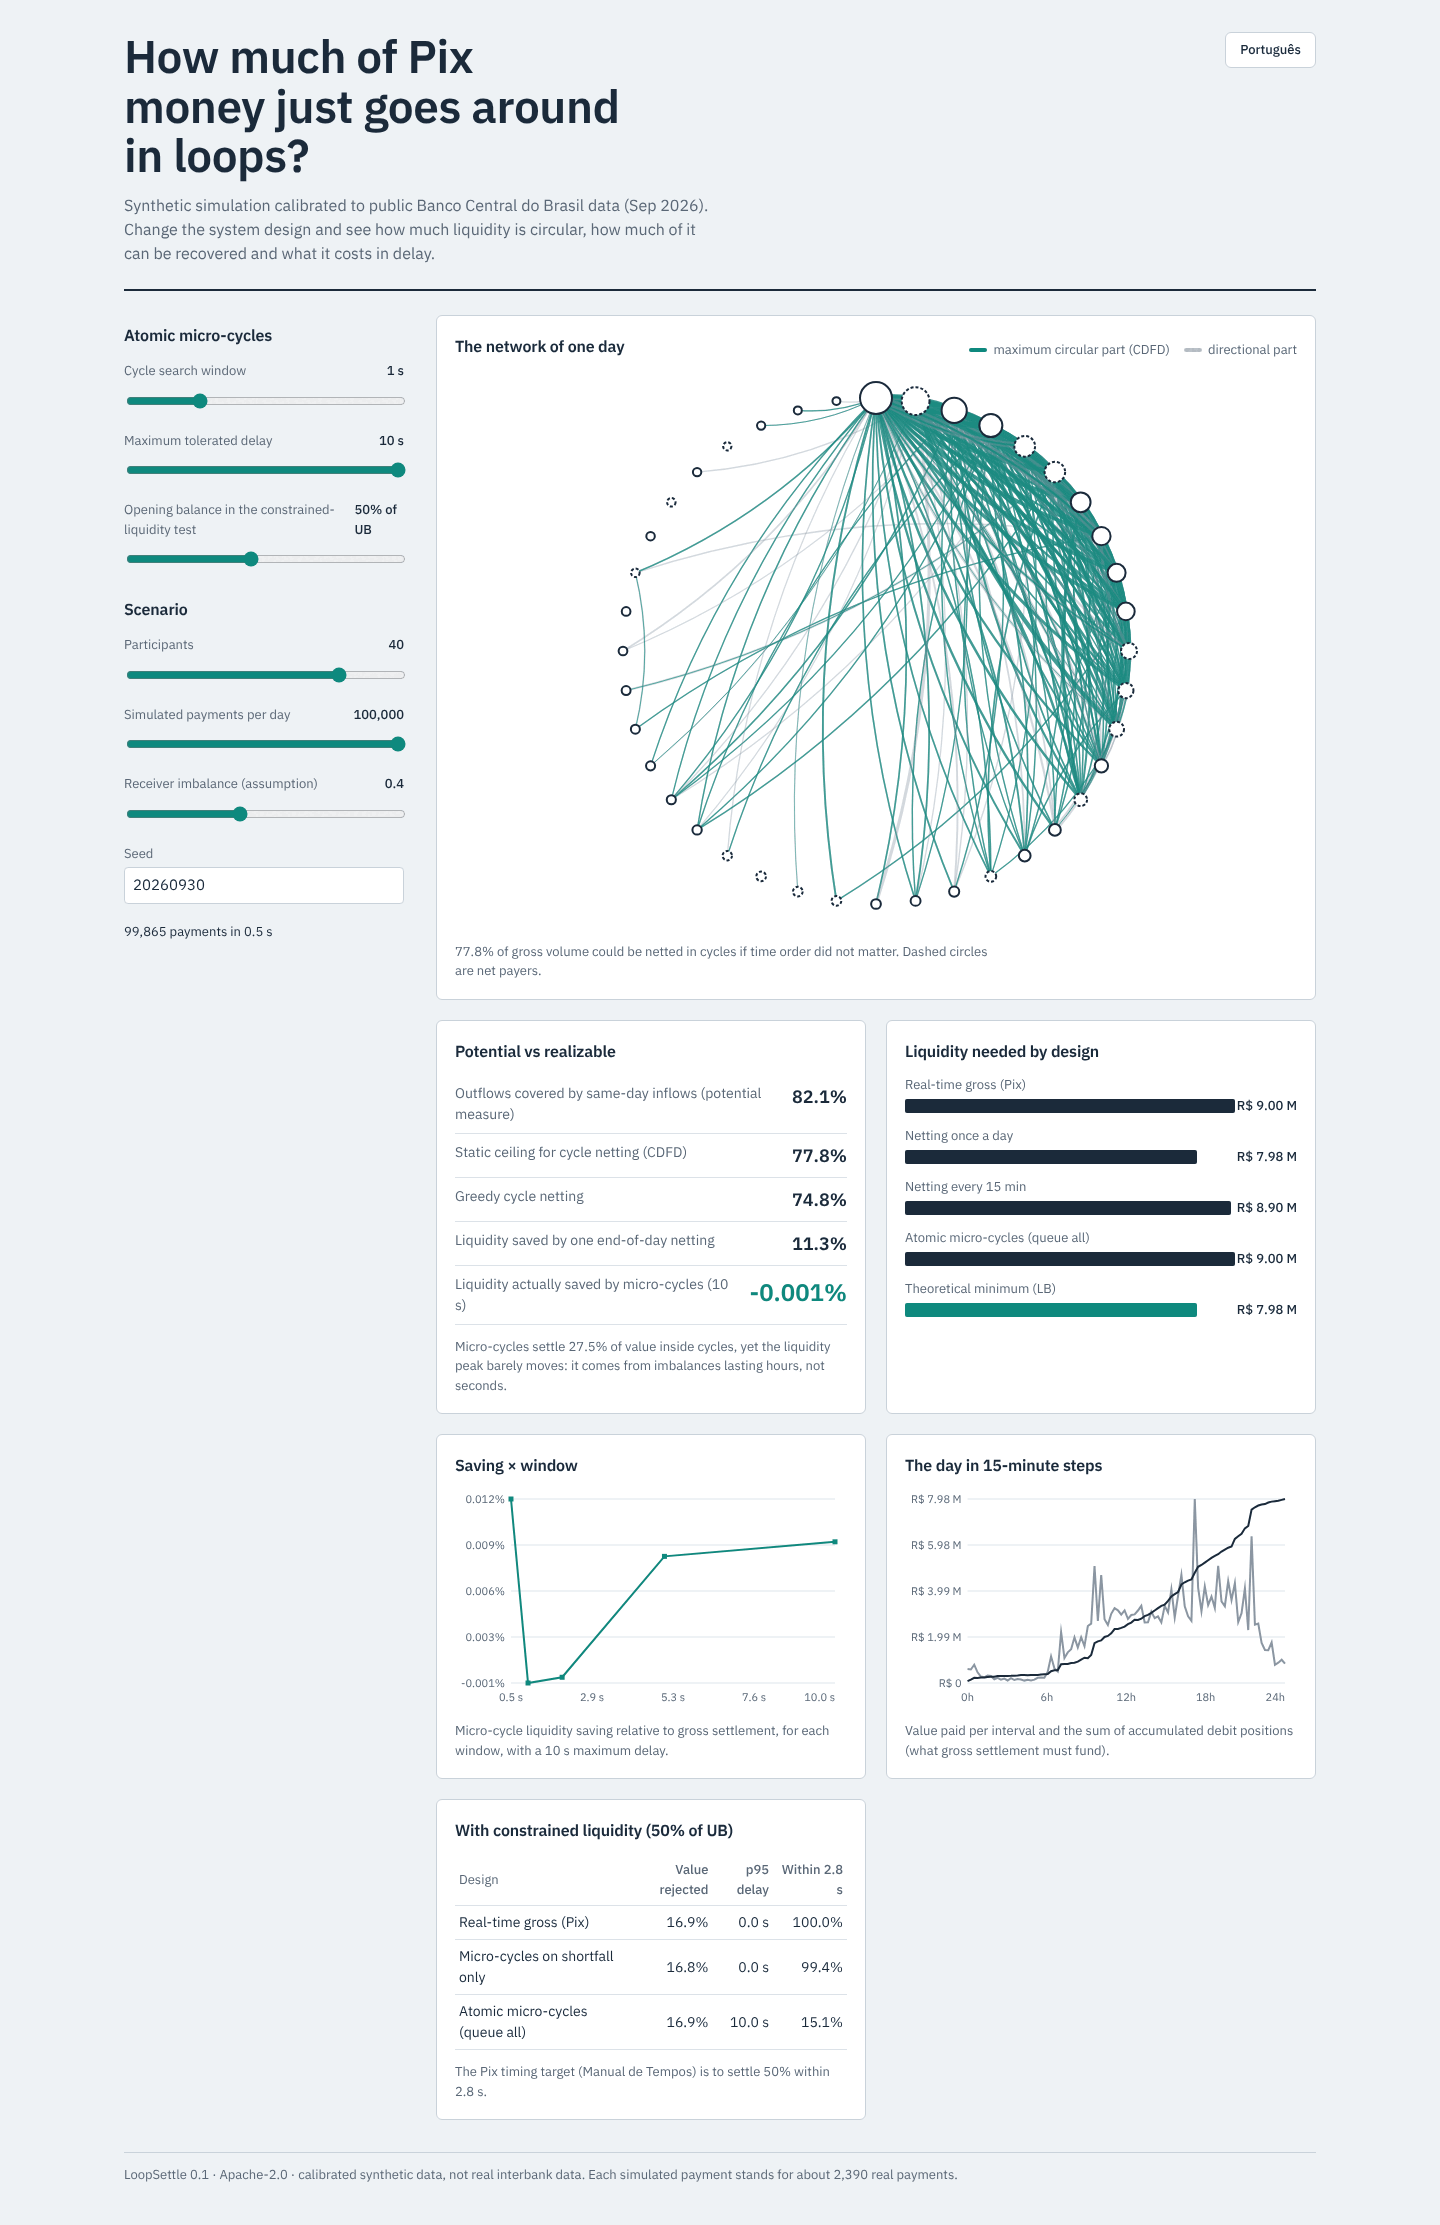
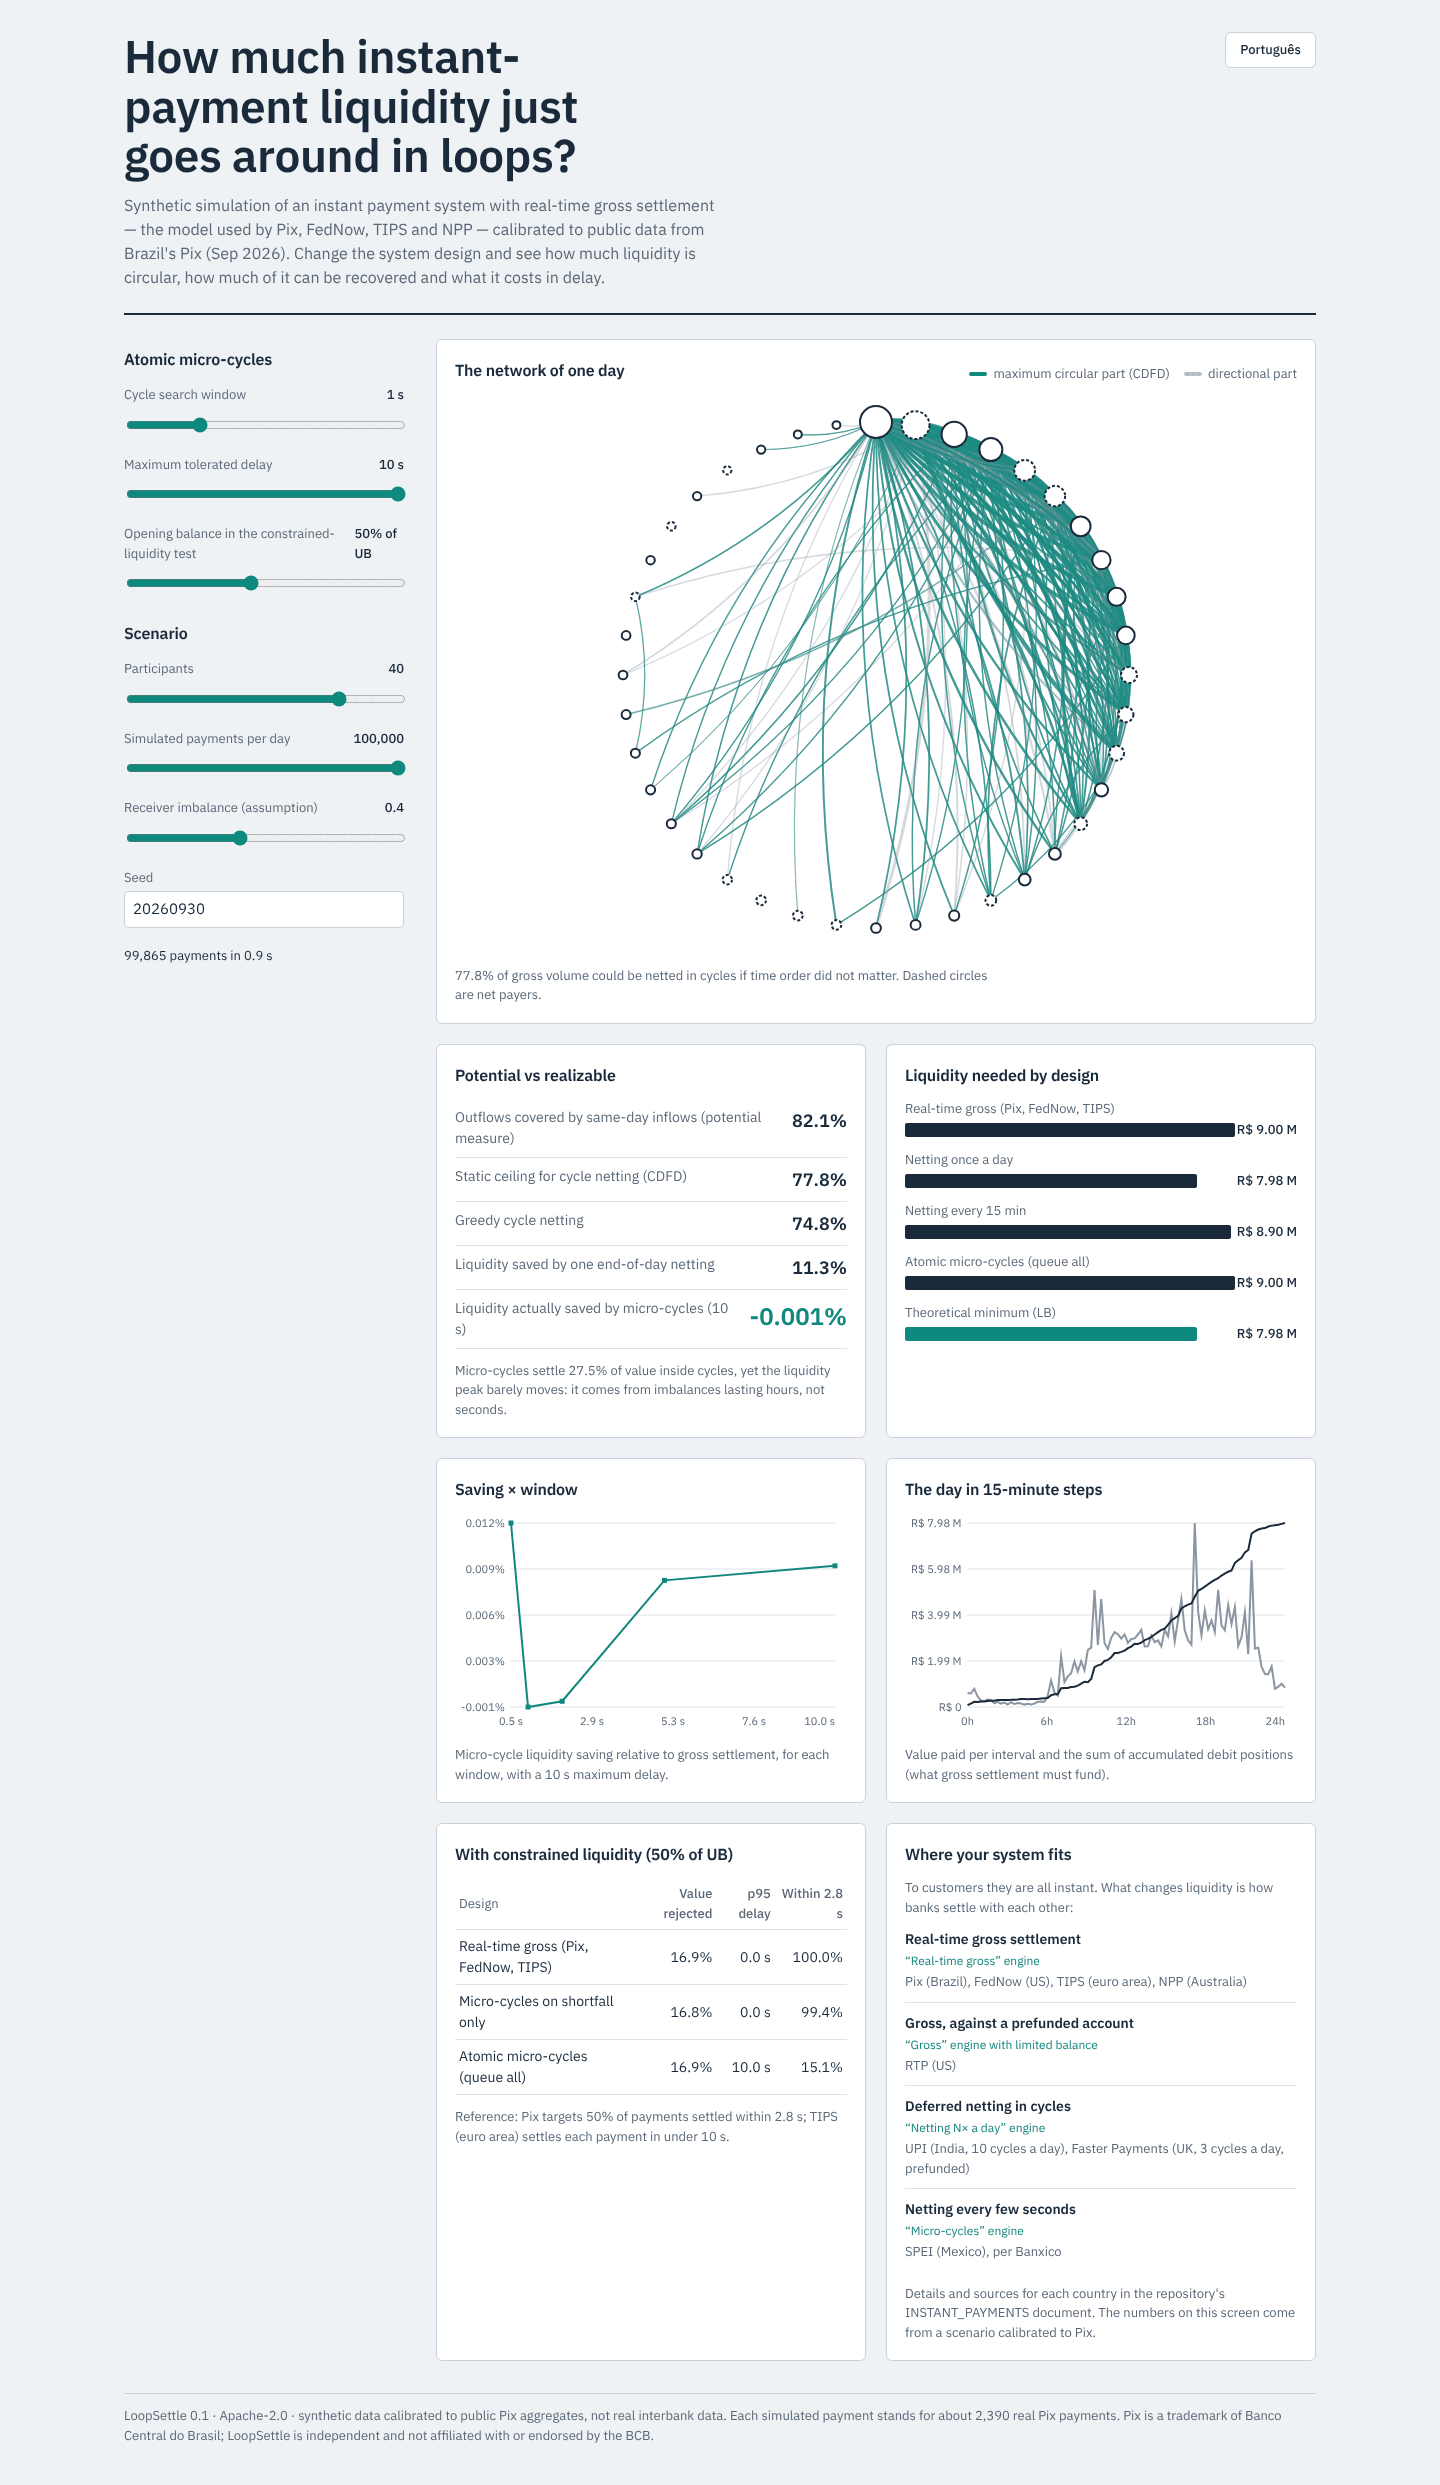
web: frame the UI as instant payments in general (Pix as the calibrated case), add 'where your system fits' panel and Pix trademark notice; regenerate screenshots
Claude-Session: https://claude.ai/code/session_01DUGyeUeHFLL1zbYYdBK5a7

diff --git a/web/src/i18n.ts b/web/src/i18n.ts
@@ -30,9 +30,9 @@ export function saveLang(lang: Lang) {
 export const LOCALE: Record<Lang, string> = { pt: "pt-BR", en: "en-US" };
 
 const pt = {
-  title: "Quanto do dinheiro do Pix só dá voltas?",
+  title: "Quanto da liquidez dos pagamentos instantâneos só dá voltas?",
   lede:
-    "Simulação sintética, calibrada com dados públicos do Banco Central (set/2026). Ajuste o desenho do sistema e veja quanta liquidez é circular, quanto disso dá para recuperar e quanto custa em atraso.",
+    "Simulação sintética de um sistema de pagamentos instantâneos com liquidação bruta em tempo real — o modelo do Pix, do FedNow, do TIPS e do NPP —, calibrada com dados públicos do Pix (Brasil, set/2026). Ajuste o desenho do sistema e veja quanta liquidez é circular, quanto disso dá para recuperar e quanto custa em atraso.",
   langSwitch: "English",
   langSwitchLabel: "Mudar o idioma para inglês",
   controlsLabel: "Parâmetros da simulação",
@@ -52,7 +52,7 @@ const pt = {
   reduced: "Modo reduzido: cenários menores para caber no aparelho.",
   loading: "Carregando o simulador…",
   footer: (k: string) =>
-    `LoopSettle 0.1 · Apache-2.0 · dados sintéticos calibrados, não dados interbancários reais. Cada pagamento simulado representa cerca de ${k} pagamentos reais.`,
+    `LoopSettle 0.1 · Apache-2.0 · dados sintéticos calibrados com agregados públicos do Pix, não dados interbancários reais. Cada pagamento simulado representa cerca de ${k} pagamentos reais do Pix. Pix é marca do Banco Central do Brasil; o LoopSettle é independente, sem afiliação nem endosso do BCB.`,
   netTitle: "A rede de um dia",
   keyCirc: "parte circular máxima (CDFD)",
   keyDir: "parte direcional",
@@ -80,23 +80,32 @@ const pt = {
   colRejected: "Valor rejeitado",
   colP95: "Atraso p95",
   colWithin: "Até 2,8 s",
-  constrainedCaption: "A meta do Manual de Tempos do Pix é liquidar 50% em até 2,8 s.",
+  constrainedCaption: "Referência: a meta do Pix é liquidar 50% dos pagamentos em até 2,8 s; o TIPS (zona do euro) liquida cada pagamento em menos de 10 s.",
   engines: {
-    gross_real_time: "Bruto em tempo real (Pix)",
+    gross_real_time: "Bruto em tempo real (Pix, FedNow, TIPS)",
     deferred_net_1x: "Compensação 1× ao dia",
     deferred_net_96x: "Compensação a cada 15 min",
     micro_all: "Micro-ciclos atômicos (fila total)",
     micro_shortfall: "Micro-ciclos só na falta de saldo",
   },
   money: { bn: "bi", mn: "mi", k: "mil" },
+  fitTitle: "Onde o seu sistema se encaixa",
+  fitIntro: "Para o cliente, todos são instantâneos. O que muda a liquidez é como os bancos acertam as contas entre si:",
+  fitRows: [
+    { model: "Liquidação bruta em tempo real", engine: "motor “Bruto em tempo real”", systems: "Pix (Brasil), FedNow (EUA), TIPS (zona do euro), NPP (Austrália)" },
+    { model: "Bruta, com conta pré-financiada", engine: "motor “Bruto” com saldo limitado", systems: "RTP (EUA)" },
+    { model: "Compensação diferida em ciclos", engine: "motor “Compensação N× ao dia”", systems: "UPI (Índia, 10 ciclos por dia), Faster Payments (Reino Unido, 3 ciclos por dia, pré-financiado)" },
+    { model: "Compensação a cada poucos segundos", engine: "motor “Micro-ciclos”", systems: "SPEI (México), segundo o Banxico" },
+  ],
+  fitCaption: "Detalhes e fontes de cada país no documento INSTANT_PAYMENTS do repositório. Os números desta tela vêm de um cenário calibrado com o Pix.",
 };
 
 export type Strings = typeof pt;
 
 const en: Strings = {
-  title: "How much of Pix money just goes around in loops?",
+  title: "How much instant-payment liquidity just goes around in loops?",
   lede:
-    "Synthetic simulation calibrated to public Banco Central do Brasil data (Sep 2026). Change the system design and see how much liquidity is circular, how much of it can be recovered and what it costs in delay.",
+    "Synthetic simulation of an instant payment system with real-time gross settlement — the model used by Pix, FedNow, TIPS and NPP — calibrated to public data from Brazil's Pix (Sep 2026). Change the system design and see how much liquidity is circular, how much of it can be recovered and what it costs in delay.",
   langSwitch: "Português",
   langSwitchLabel: "Switch language to Portuguese",
   controlsLabel: "Simulation parameters",
@@ -116,7 +125,7 @@ const en: Strings = {
   reduced: "Reduced mode: smaller scenarios to fit this device.",
   loading: "Loading the simulator…",
   footer: (k: string) =>
-    `LoopSettle 0.1 · Apache-2.0 · calibrated synthetic data, not real interbank data. Each simulated payment stands for about ${k} real payments.`,
+    `LoopSettle 0.1 · Apache-2.0 · synthetic data calibrated to public Pix aggregates, not real interbank data. Each simulated payment stands for about ${k} real Pix payments. Pix is a trademark of Banco Central do Brasil; LoopSettle is independent and not affiliated with or endorsed by the BCB.`,
   netTitle: "The network of one day",
   keyCirc: "maximum circular part (CDFD)",
   keyDir: "directional part",
@@ -144,15 +153,24 @@ const en: Strings = {
   colRejected: "Value rejected",
   colP95: "p95 delay",
   colWithin: "Within 2.8 s",
-  constrainedCaption: "The Pix timing target (Manual de Tempos) is to settle 50% within 2.8 s.",
+  constrainedCaption: "Reference: Pix targets 50% of payments settled within 2.8 s; TIPS (euro area) settles each payment in under 10 s.",
   engines: {
-    gross_real_time: "Real-time gross (Pix)",
+    gross_real_time: "Real-time gross (Pix, FedNow, TIPS)",
     deferred_net_1x: "Netting once a day",
     deferred_net_96x: "Netting every 15 min",
     micro_all: "Atomic micro-cycles (queue all)",
     micro_shortfall: "Micro-cycles on shortfall only",
   },
   money: { bn: "bn", mn: "M", k: "k" },
+  fitTitle: "Where your system fits",
+  fitIntro: "To customers they are all instant. What changes liquidity is how banks settle with each other:",
+  fitRows: [
+    { model: "Real-time gross settlement", engine: "“Real-time gross” engine", systems: "Pix (Brazil), FedNow (US), TIPS (euro area), NPP (Australia)" },
+    { model: "Gross, against a prefunded account", engine: "“Gross” engine with limited balance", systems: "RTP (US)" },
+    { model: "Deferred netting in cycles", engine: "“Netting N× a day” engine", systems: "UPI (India, 10 cycles a day), Faster Payments (UK, 3 cycles a day, prefunded)" },
+    { model: "Netting every few seconds", engine: "“Micro-cycles” engine", systems: "SPEI (Mexico), per Banxico" },
+  ],
+  fitCaption: "Details and sources for each country in the repository's INSTANT_PAYMENTS document. The numbers on this screen come from a scenario calibrated to Pix.",
 };
 
 export const STRINGS: Record<Lang, Strings> = { pt, en };

diff --git a/web/src/styles.css b/web/src/styles.css
@@ -64,6 +64,12 @@ input[type="number"] { font: inherit; padding: 6px 8px; border: 1px solid var(--
 .results { display: grid; grid-template-columns: repeat(2, minmax(0, 1fr)); gap: 20px; }
 .panel { background: var(--surface); border: 1px solid var(--rule); border-radius: 6px; padding: 18px; display: flex; flex-direction: column; gap: 12px; min-width: 0; }
 .panel.hero { grid-column: 1 / -1; }
+.fit { list-style: none; margin: 0; padding: 0; display: flex; flex-direction: column; }
+.fit li { display: flex; flex-direction: column; gap: 2px; padding: 10px 0; border-top: 1px solid var(--grid); }
+.fit li:first-child { border-top: 0; padding-top: 0; }
+.fit-model { font-weight: 600; font-size: 14px; }
+.fit-engine { font-size: 12px; color: var(--circular); }
+.fit-systems { font-size: 13px; color: var(--muted); }
 .panel-head { display: flex; flex-wrap: wrap; justify-content: space-between; gap: 8px; align-items: baseline; }
 .legend { margin: 0; font-size: 13px; color: var(--muted); display: flex; align-items: center; gap: 6px; }
 .key { display: inline-block; width: 18px; height: 4px; border-radius: 2px; margin-left: 8px; }

diff --git a/web/src/App.tsx b/web/src/App.tsx
@@ -214,6 +214,21 @@ function Results({ data, params, s }: { data: SimResult; params: SimParams; s: S
         </table>
         <p className="caption">{s.constrainedCaption}</p>
       </section>
+
+      <section className="panel" aria-labelledby="fit-h">
+        <h2 id="fit-h">{s.fitTitle}</h2>
+        <p className="caption">{s.fitIntro}</p>
+        <ul className="fit">
+          {s.fitRows.map((r) => (
+            <li key={r.model}>
+              <span className="fit-model">{r.model}</span>
+              <span className="fit-engine">{r.engine}</span>
+              <span className="fit-systems">{r.systems}</span>
+            </li>
+          ))}
+        </ul>
+        <p className="caption">{s.fitCaption}</p>
+      </section>
     </>
   );
 }
